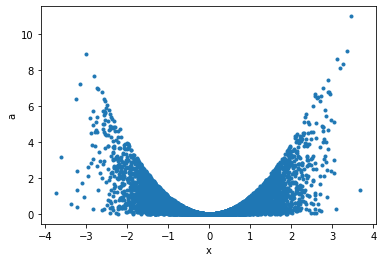
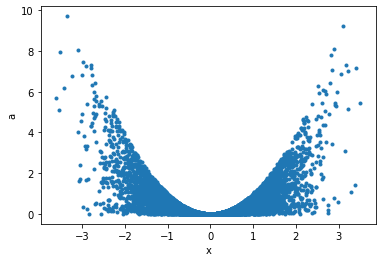
udate readme

diff --git a/README.md b/README.md
@@ -53,20 +53,14 @@ g['a']
 
 <table>
 <tbody>
-<tr><td><b>y \ x</b></td><td><b>0</b></td><td><b>0.325</b></td><td><b>0.65</b></td><td><b>0.975</b></td><td><b>1.3</b></td><td><b>1.62</b></td><td>...</td><td><b>7.8</b></td><td><b>8.12</b></td><td><b>8.45</b></td><td><b>8.77</b></td><td><b>9.1</b></td><td><b>9.42</b></td></tr>
-<tr><td><b>0</b>    </td><td>0       </td><td>0.319       </td><td>0.605      </td><td>0.828       </td><td>0.964     </td><td>0.999      </td><td>...</td><td>0.999     </td><td>0.964      </td><td>0.828      </td><td>0.605      </td><td>0.319     </td><td>3.67e-16   </td></tr>
-<tr><td><b>0.331</b></td><td>0       </td><td>0.302       </td><td>0.572      </td><td>0.783       </td><td>0.911     </td><td>0.944      </td><td>...</td><td>0.944     </td><td>0.911      </td><td>0.783      </td><td>0.572      </td><td>0.302     </td><td>3.47e-16   </td></tr>
-<tr><td><b>0.661</b></td><td>0       </td><td>0.252       </td><td>0.478      </td><td>0.653       </td><td>0.76      </td><td>0.788      </td><td>...</td><td>0.788     </td><td>0.76       </td><td>0.653      </td><td>0.478      </td><td>0.252     </td><td>2.9e-16    </td></tr>
-<tr><td><b>0.992</b></td><td>0       </td><td>0.175       </td><td>0.331      </td><td>0.453       </td><td>0.527     </td><td>0.546      </td><td>...</td><td>0.546     </td><td>0.527      </td><td>0.453      </td><td>0.331      </td><td>0.175     </td><td>2.01e-16   </td></tr>
-<tr><td><b>1.32</b> </td><td>0       </td><td>0.0784      </td><td>0.149      </td><td>0.203       </td><td>0.237     </td><td>0.245      </td><td>...</td><td>0.245     </td><td>0.237      </td><td>0.203      </td><td>0.149      </td><td>0.0784    </td><td>9.02e-17   </td></tr>
-<tr><td><b>1.65</b> </td><td>-0      </td><td>-0.0264     </td><td>-0.05      </td><td>-0.0684     </td><td>-0.0796   </td><td>-0.0825    </td><td>...</td><td>-0.0825   </td><td>-0.0796    </td><td>-0.0684    </td><td>-0.05      </td><td>-0.0264   </td><td>-3.03e-17  </td></tr>
-<tr><td>...         </td><td>...     </td><td>...         </td><td>...        </td><td>...         </td><td>...       </td><td>...        </td><td>...</td><td>...       </td><td>...        </td><td>...        </td><td>...        </td><td>...       </td><td>...        </td></tr>
-<tr><td><b>4.63</b> </td><td>-0      </td><td>-0.0264     </td><td>-0.05      </td><td>-0.0684     </td><td>-0.0796   </td><td>-0.0825    </td><td>...</td><td>-0.0825   </td><td>-0.0796    </td><td>-0.0684    </td><td>-0.05      </td><td>-0.0264   </td><td>-3.03e-17  </td></tr>
-<tr><td><b>4.96</b> </td><td>0       </td><td>0.0784      </td><td>0.149      </td><td>0.203       </td><td>0.237     </td><td>0.245      </td><td>...</td><td>0.245     </td><td>0.237      </td><td>0.203      </td><td>0.149      </td><td>0.0784    </td><td>9.02e-17   </td></tr>
-<tr><td><b>5.29</b> </td><td>0       </td><td>0.175       </td><td>0.331      </td><td>0.453       </td><td>0.527     </td><td>0.546      </td><td>...</td><td>0.546     </td><td>0.527      </td><td>0.453      </td><td>0.331      </td><td>0.175     </td><td>2.01e-16   </td></tr>
-<tr><td><b>5.62</b> </td><td>0       </td><td>0.252       </td><td>0.478      </td><td>0.653       </td><td>0.76      </td><td>0.788      </td><td>...</td><td>0.788     </td><td>0.76       </td><td>0.653      </td><td>0.478      </td><td>0.252     </td><td>2.9e-16    </td></tr>
-<tr><td><b>5.95</b> </td><td>0       </td><td>0.302       </td><td>0.572      </td><td>0.783       </td><td>0.911     </td><td>0.944      </td><td>...</td><td>0.944     </td><td>0.911      </td><td>0.783      </td><td>0.572      </td><td>0.302     </td><td>3.47e-16   </td></tr>
-<tr><td><b>6.28</b> </td><td>0       </td><td>0.319       </td><td>0.605      </td><td>0.828       </td><td>0.964     </td><td>0.999      </td><td>...</td><td>0.999     </td><td>0.964      </td><td>0.828      </td><td>0.605      </td><td>0.319     </td><td>3.67e-16   </td></tr>
+<tr><td><b>y \ x</b></td><td><b>0</b></td><td><b>0.325</b></td><td><b>0.65</b></td><td>...</td><td><b>8.77</b></td><td><b>9.1</b></td><td><b>9.42</b></td></tr>
+<tr><td><b>0</b>    </td><td>0       </td><td>0.319       </td><td>0.605      </td><td>...</td><td>0.605      </td><td>0.319     </td><td>3.67e-16   </td></tr>
+<tr><td><b>0.331</b></td><td>0       </td><td>0.302       </td><td>0.572      </td><td>...</td><td>0.572      </td><td>0.302     </td><td>3.47e-16   </td></tr>
+<tr><td><b>0.661</b></td><td>0       </td><td>0.252       </td><td>0.478      </td><td>...</td><td>0.478      </td><td>0.252     </td><td>2.9e-16    </td></tr>
+<tr><td>...         </td><td>...     </td><td>...         </td><td>...        </td><td>...</td><td>...        </td><td>...       </td><td>...        </td></tr>
+<tr><td><b>5.62</b> </td><td>0       </td><td>0.252       </td><td>0.478      </td><td>...</td><td>0.478      </td><td>0.252     </td><td>2.9e-16    </td></tr>
+<tr><td><b>5.95</b> </td><td>0       </td><td>0.302       </td><td>0.572      </td><td>...</td><td>0.572      </td><td>0.302     </td><td>3.47e-16   </td></tr>
+<tr><td><b>6.28</b> </td><td>0       </td><td>0.319       </td><td>0.605      </td><td>...</td><td>0.605      </td><td>0.319     </td><td>3.67e-16   </td></tr>
 </tbody>
 </table>
 
@@ -106,12 +100,12 @@ g[10::-1, :np.pi:2]
 
 <table>
 <tbody>
-<tr><td><b>y \ x</b></td><td><b>3.25</b></td><td><b>2.92</b></td><td><b>2.6</b></td><td><b>2.27</b></td><td><b>1.95</b></td><td><b>1.62</b></td><td><b>1.3</b></td><td><b>0.975</b></td><td><b>0.65</b></td><td><b>0.325</b></td><td><b>0</b></td></tr>
-<tr><td><b>0</b>    </td><td>a = -0.108 </td><td>a = 0.215  </td><td>a = 0.516 </td><td>a = 0.762  </td><td>a = 0.929  </td><td>a = 0.999  </td><td>a = 0.964 </td><td>a = 0.828   </td><td>a = 0.605  </td><td>a = 0.319   </td><td>a = 0   </td></tr>
-<tr><td><b>0.661</b></td><td>a = -0.0853</td><td>a = 0.17   </td><td>a = 0.407 </td><td>a = 0.601  </td><td>a = 0.733  </td><td>a = 0.788  </td><td>a = 0.76  </td><td>a = 0.653   </td><td>a = 0.478  </td><td>a = 0.252   </td><td>a = 0   </td></tr>
-<tr><td><b>1.32</b> </td><td>a = -0.0265</td><td>a = 0.0528 </td><td>a = 0.127 </td><td>a = 0.187  </td><td>a = 0.228  </td><td>a = 0.245  </td><td>a = 0.237 </td><td>a = 0.203   </td><td>a = 0.149  </td><td>a = 0.0784  </td><td>a = 0   </td></tr>
-<tr><td><b>1.98</b> </td><td>a = 0.0434 </td><td>a = -0.0864</td><td>a = -0.207</td><td>a = -0.306 </td><td>a = -0.373 </td><td>a = -0.401 </td><td>a = -0.387</td><td>a = -0.332  </td><td>a = -0.243 </td><td>a = -0.128  </td><td>a = -0  </td></tr>
-<tr><td><b>2.65</b> </td><td>a = 0.0951 </td><td>a = -0.189 </td><td>a = -0.453</td><td>a = -0.67  </td><td>a = -0.817 </td><td>a = -0.878 </td><td>a = -0.847</td><td>a = -0.728  </td><td>a = -0.532 </td><td>a = -0.281  </td><td>a = -0  </td></tr>
+<tr><td><b>y \ x</b></td><td><b>3.25</b></td><td><b>2.92</b></td><td><b>2.6</b></td><td>...</td><td><b>0.65</b></td><td><b>0.325</b></td><td><b>0</b></td></tr>
+<tr><td><b>0</b>    </td><td>a = -0.108 </td><td>a = 0.215  </td><td>a = 0.516 </td><td>...</td><td>a = 0.605  </td><td>a = 0.319   </td><td>a = 0   </td></tr>
+<tr><td><b>0.661</b></td><td>a = -0.0853</td><td>a = 0.17   </td><td>a = 0.407 </td><td>...</td><td>a = 0.478  </td><td>a = 0.252   </td><td>a = 0   </td></tr>
+<tr><td><b>1.32</b> </td><td>a = -0.0265</td><td>a = 0.0528 </td><td>a = 0.127 </td><td>...</td><td>a = 0.149  </td><td>a = 0.0784  </td><td>a = 0   </td></tr>
+<tr><td><b>1.98</b> </td><td>a = 0.0434 </td><td>a = -0.0864</td><td>a = -0.207</td><td>...</td><td>a = -0.243 </td><td>a = -0.128  </td><td>a = -0  </td></tr>
+<tr><td><b>2.65</b> </td><td>a = 0.0951 </td><td>a = -0.189 </td><td>a = -0.453</td><td>...</td><td>a = -0.532 </td><td>a = -0.281  </td><td>a = -0  </td></tr>
 </tbody>
 </table>
 
@@ -200,8 +194,8 @@ p
 
 <table>
 <tbody>
-<tr><td><b>x</b></td><td style="text-align: right;">0.479</td><td style="text-align: right;">-0.00525</td><td style="text-align: right;">0.379</td><td style="text-align: right;">0.561 </td><td style="text-align: right;">0.94 </td><td style="text-align: right;">-0.201 </td><td>...</td><td style="text-align: right;">0.0417 </td><td style="text-align: right;">0.445</td><td style="text-align: right;">-1.37 </td><td style="text-align: right;">0.992</td><td style="text-align: right;">-0.254 </td><td style="text-align: right;">0.441</td></tr>
-<tr><td><b>a</b></td><td style="text-align: right;">0.22 </td><td style="text-align: right;"> 1.1e-05</td><td style="text-align: right;">0.107</td><td style="text-align: right;">0.0771</td><td style="text-align: right;">0.242</td><td style="text-align: right;"> 0.0237</td><td>...</td><td style="text-align: right;">0.00123</td><td style="text-align: right;">0.145</td><td style="text-align: right;"> 0.125</td><td style="text-align: right;">0.259</td><td style="text-align: right;"> 0.0386</td><td style="text-align: right;">0.13 </td></tr>
+<tr><td><b>x</b></td><td style="text-align: right;">0.894</td><td style="text-align: right;">-0.532</td><td style="text-align: right;">0.179 </td><td>...</td><td style="text-align: right;">-0.264 </td><td style="text-align: right;">-1.78 </td><td style="text-align: right;">2.33</td></tr>
+<tr><td><b>a</b></td><td style="text-align: right;">0.381</td><td style="text-align: right;"> 0.171</td><td style="text-align: right;">0.0155</td><td>...</td><td style="text-align: right;"> 0.0554</td><td style="text-align: right;"> 0.711</td><td style="text-align: right;">2.16</td></tr>
 </tbody>
 </table>
 
@@ -228,7 +222,7 @@ p.plot('x', 'a', '.');
 ![png](README_files/README_23_0.png)
 
 
-This can now seamlessly be translated into `Griddata`, for example taking the data binwise in `x` in 10 bins, and in each bin summing up points:
+This can now seamlessly be translated into `Griddata`, for example taking the data binwise in `x` in 20 bins, and in each bin summing up points:
 
 
 ```python
@@ -240,8 +234,8 @@ p.binwise(x=20).sum()
 
 <table>
 <tbody>
-<tr><td><b>x</b></td><td><b>[-3.736 -3.365]</b></td><td><b>[-3.365 -2.994]</b></td><td><b>[-2.994 -2.623]</b></td><td><b>[-2.623 -2.252]</b></td><td><b>[-2.252 -1.882]</b></td><td><b>[-1.882 -1.511]</b></td><td>...</td><td><b>[1.456 1.827]</b></td><td><b>[1.827 2.198]</b></td><td><b>[2.198 2.569]</b></td><td><b>[2.569 2.939]</b></td><td><b>[2.939 3.31 ]</b></td><td><b>[3.31  3.681]</b></td></tr>
-<tr><td><b>a</b></td><td>4.87                  </td><td>29.3                  </td><td>99.7                  </td><td>279                   </td><td>315                   </td><td>556                   </td><td>...</td><td>513                 </td><td>402                 </td><td>214                 </td><td>162                 </td><td>50.1                </td><td>21.4                </td></tr>
+<tr><td><b>x</b></td><td><b>[-3.608 -3.252]</b></td><td><b>[-3.252 -2.896]</b></td><td><b>[-2.896 -2.54 ]</b></td><td>...</td><td><b>[2.444 2.8  ]</b></td><td><b>[2.8   3.156]</b></td><td><b>[3.156 3.512]</b></td></tr>
+<tr><td><b>a</b></td><td>34.7                  </td><td>68                    </td><td>150                   </td><td>...</td><td>126                 </td><td>72.3                </td><td>37.7                </td></tr>
 </tbody>
 </table>
 
@@ -268,9 +262,9 @@ p.histogram(x=20)
 
 <table>
 <tbody>
-<tr><td><b>x</b>     </td><td><b>[-3.736 -3.365]</b></td><td><b>[-3.365 -2.994]</b></td><td><b>[-2.994 -2.623]</b></td><td><b>[-2.623 -2.252]</b></td><td><b>[-2.252 -1.882]</b></td><td><b>[-1.882 -1.511]</b></td><td>...</td><td><b>[1.456 1.827]</b></td><td><b>[1.827 2.198]</b></td><td><b>[2.198 2.569]</b></td><td><b>[2.569 2.939]</b></td><td><b>[2.939 3.31 ]</b></td><td><b>[3.31  3.681]</b></td></tr>
-<tr><td><b>a</b>     </td><td>4.87                  </td><td>29.3                  </td><td>99.7                  </td><td>279                   </td><td>315                   </td><td>556                   </td><td>...</td><td>513                 </td><td>402                 </td><td>214                 </td><td>162                 </td><td>50.1                </td><td>21.4                </td></tr>
-<tr><td><b>counts</b></td><td>3                     </td><td>8                     </td><td>25                    </td><td>85                    </td><td>156                   </td><td>389                   </td><td>...</td><td>385                 </td><td>199                 </td><td>85                  </td><td>42                  </td><td>10                  </td><td>3                   </td></tr>
+<tr><td><b>x</b>     </td><td><b>[-3.608 -3.252]</b></td><td><b>[-3.252 -2.896]</b></td><td><b>[-2.896 -2.54 ]</b></td><td>...</td><td><b>[2.444 2.8  ]</b></td><td><b>[2.8   3.156]</b></td><td><b>[3.156 3.512]</b></td></tr>
+<tr><td><b>a</b>     </td><td>34.7                  </td><td>68                    </td><td>150                   </td><td>...</td><td>126                 </td><td>72.3                </td><td>37.7                </td></tr>
+<tr><td><b>counts</b></td><td>5                     </td><td>16                    </td><td>38                    </td><td>...</td><td>39                  </td><td>13                  </td><td>8                   </td></tr>
 </tbody>
 </table>
 
@@ -309,8 +303,3 @@ p.binwise(x=20).quantile(q=[0.1, 0.3, 0.5, 0.7, 0.9]).plot_bands()
 
 ![png](README_files/README_33_0.png)
 
-
-
-```python
-
-```
